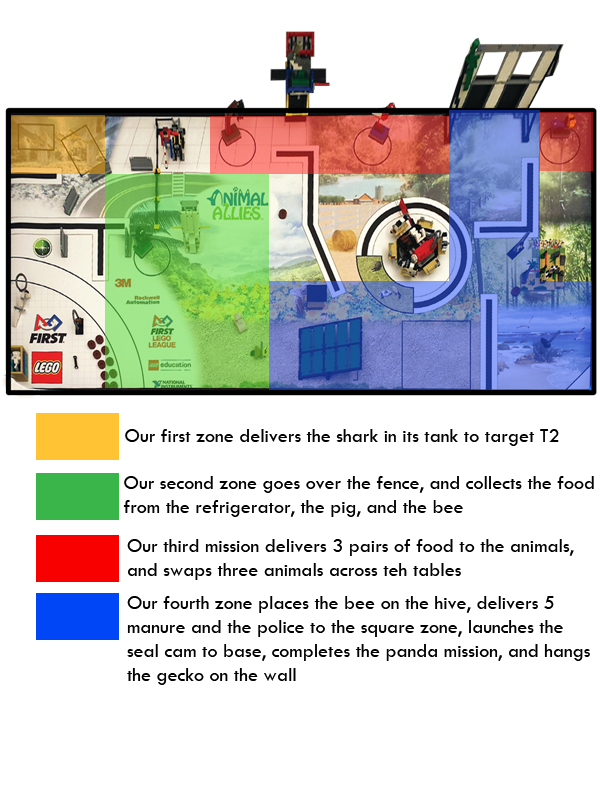
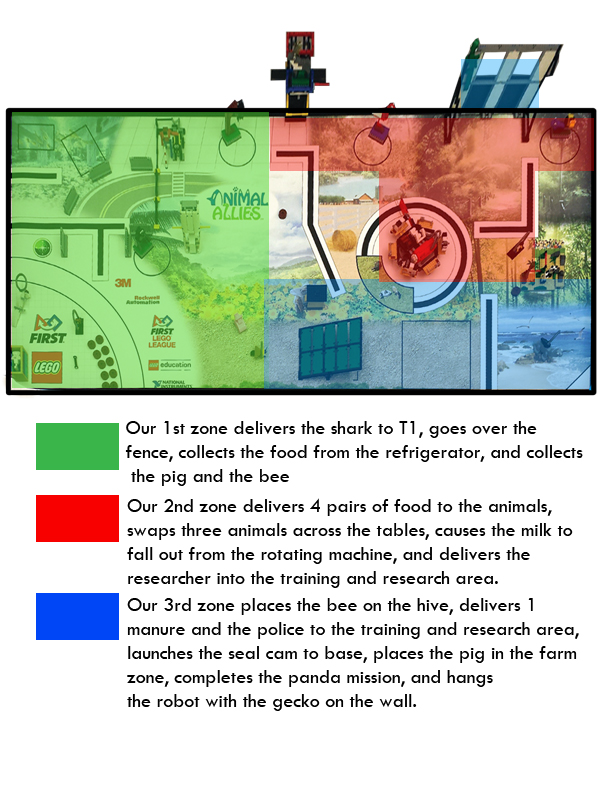
robot

diff --git a/design.html b/design.html
@@ -137,8 +137,6 @@ Technic angular wheels, and attachment bay allow the robot driver to install and
 
 		
 		
-		<br>
-	<br>
 
 
 <br>
@@ -159,36 +157,50 @@ Technic angular wheels, and attachment bay allow the robot driver to install and
 		   <tr>
              <td class="tick-border">The Monstrosity</td>
              <td class="tick-border">This is our largest attachment, employing a number of passive devices. 
-			 The robot rides on top of it, driving 
-			 the wheels on the attachment through a series of gears. It delivers the bee to the beehive and 
-			 releases the honey using a gravity-activated arm. It catapults the seal camera back to base using an
-			 elastic band powered arm. The robot then drives off the attachment using a ramp which completes the
-			 panda mission using a passive arm. Finally, the robot drives to the biomimicry wall and hangs the
-			 gecko.</td>
+			 The robot rides on top of it, driving the wheels on the attachment through a series of gears. It delivers the bee to the 
+			 beehive and releases the honey using a gravity-activated arm. It swings an arm with the pig into the farm area. 
+			 It catapults the seal camera back to base using an elastic band powered arm. The robot then drives off the attachment using 
+			 a ramp which completes thepanda mission using a passive arm. Finally, the robot drives to the biomimicry wall and hangs itself 
+			 and the gecko.</td>
 			 
 			
-             <td width="44%" class="tick-border"><img class="attachemnt_img" src="images/robot/attachment1.jpg"></img></td>
+             <td width="44%" class="tick-border"><img class="attachemnt_img" src="images/robot/A6.jpg"></img></td>
            </tr>
 		   <tr>
              <td class="tick-border">Food Dispenser</td>
-             <td class="tick-border">This attachment delivers the food to the various animals using an automatic
-			 dispenser. There is also a lifting arm that completes the animal conservation mission.
+             <td class="tick-border">This attachment delivers the food to all the animals using an automatic
+			 dispenser. It pushes the cow with an arm to activate the model. Then using that same arm, 
+			 it rotates the mission model to release the milk. There is also a lifting arm that completes the animal conservation mission.
 			 </td>
-             <td width="44%" class="tick-border"><img class="attachemnt_img" src="images/robot/attachment2.jpg"></img></td>
+             <td width="44%" class="tick-border"><img class="attachemnt_img" src="images/robot/A5.jpg"></img></td>
            </tr>
 		   <tr>
-             <td class="tick-border">Shark Mechanism</td>
-             <td class="tick-border">This attachment pushes the shark tank into the angled box using a passive arm.
+             <td class="tick-border">Shark Platform</td>
+             <td class="tick-border">The shark is placed on the platform. The robot has an arm that sticks out to push the platform
+			 so that the shark is in the scoring position.
 			 </td>
-             <td width="44%" class="tick-border"><img class="attachemnt_img" src="images/robot/attachment3.jpg"></img></td>
+             <td width="44%" class="tick-border"><img class="attachemnt_img" src="images/robot/A3.jpg"></img></td>
            </tr>
 		   <tr>
              <td class="tick-border">Service Dog and Feeding</td>
-             <td class="tick-border">This attachment has wheels that can be lowered, allowing the robot to cross the
-			 fence. There is also a motorized arm which releases the food from the refrigerator.</td>
-             <td width="44%" class="tick-border"><img class="attachemnt_img" src="images/robot/attachment4.jpg"></img></td>
+             <td class="tick-border">This attachment has wheels that raise the robot, allowing the robot to cross the
+			 fence. There is a motorized arm which releases all the food from the refrigerator. It also has an arm that lowers down to 
+			 drag the bee, pig, and the basket that holds the food back to base.</td>
+             <td width="44%" class="tick-border"><img class="attachemnt_img" src="images/robot/A2.jpg"></img></td>
            </tr>
-
+			<tr>
+             <td class="tick-border">The Giraffe</td>
+             <td class="tick-border">This attachment lowers an arm to deliver the basket that collects the food in front of the fridge. It relies on
+			 gravity to lower the arm. Once the basket is relaeased, the arm springs back into base. This attachment also acts as a jig to line up
+			 the robot in base and the shark platform.</td>
+             <td width="44%" class="tick-border"><img class="attachemnt_img" src="images/robot/A4.jpg"></img></td>
+           </tr>
+		   <tr>
+             <td class="tick-border">Gecko Hanger</td>
+             <td class="tick-border"> This attachment hangs the robot onto the biomimicry wall with the gecko.
+			 It uses a worm gear to deliver enough force to lift up the robot without straining the motor.	</td>
+             <td width="44%" class="tick-border"><img class="attachemnt_img" src="images/robot/A1.jpg"></img></td>
+           </tr>
 		   </tbody>
 		</table>
 		<br>

diff --git a/strategy.html b/strategy.html
@@ -114,9 +114,9 @@ combining missions based on proximity and attachment used (see diagram below)</l
              <th width="10%" class="tick-border">Zone</th>
              <th class="tick-border">Missions</th>
              <th class="tick-border">Points</th>
-             <th class="tick-border">Time in Base Before Mission</th>
-             <th class="tick-border">Robot Running Time</th>
-             <th class="tick-border">Total Mission Time</th>
+             <th class="tick-border">Time in Base Before Mission (s)</th>
+             <th class="tick-border">Robot Running Time (s)</th>
+             <th class="tick-border">Total Mission Time (s)</th>
              <th width="12%" class="tick-border">Clock at End of Mission</th>
              <th class="tick-border">Points per Second</th>
            </tr>
@@ -124,54 +124,44 @@ combining missions based on proximity and attachment used (see diagram below)</l
          <tbody>
            <tr>
              <td class="tick-border">Zone 1</td>
-             <td class="tick-border">Service Dog Action, Prosthesis</td>
-			 <td class="tick-border">24</td>
+             <td class="tick-border">Service Dog Action, T1 Shark Shipment</td>
+			 <td class="tick-border">42</td>
 			 <td class="tick-border">0</td>
-			 <td class="tick-border">44</td>
-			 <td class="tick-border">44</td>
-			 <td class="tick-border">0min 44sec</td>
-			 <td class="tick-border">0.5</td>
+			 <td class="tick-border">24</td>
+			 <td class="tick-border">24</td>
+			 <td class="tick-border">0min 24sec</td>
+			 <td class="tick-border">1.75</td>
            </tr>
            <tr>
              <td class="tick-border">Zone 2</td>
-             <td class="tick-border">Shark Shipment</td>
-			 <td class="tick-border">30</td>
-			 <td class="tick-border">5</td>
-			 <td class="tick-border">13</td>
+             <td class="tick-border">Feeding, Animal Conservation, Milking Automation, Training and Research</td>
+			 <td class="tick-border">169</td>
 			 <td class="tick-border">18</td>
-			 <td class="tick-border">1min 02sec</td>
-			 <td class="tick-border">1.7</td>
-           </tr>
-           <tr>
-             <td class="tick-border">Zone 3</td>
-             <td class="tick-border">Feeding, Animal Conservation</td>
-			 <td class="tick-border">140</td>
-			 <td class="tick-border">5</td>
-			 <td class="tick-border">49</td>
-			 <td class="tick-border">54</td>
-			 <td class="tick-border">1min 56sec</td>
-			 <td class="tick-border">2.6</td>
+			 <td class="tick-border">69</td>
+			 <td class="tick-border">87</td>
+			 <td class="tick-border">1min 51sec</td>
+			 <td class="tick-border">1.94</td>
            </tr>
             <tr>
-             <td class="tick-border">Zone 4</td>
-             <td class="tick-border">Bee Keeping, Training and Research, Camera Recovery, Panda Release, Biomimicry</td>
-			 <td class="tick-border">89</td>
-			 <td class="tick-border">8</td>
-			 <td class="tick-border">20</td>
-			 <td class="tick-border">28</td>
-			 <td class="tick-border">2min 24sec</td>
-			 <td class="tick-border">3.2</td>
+             <td class="tick-border">Zone 3</td>
+             <td class="tick-border">Bee Keeping, Training and Research, Camera Recovery, Panda Release, Biomimicry, Prosthesis</td>
+			 <td class="tick-border">116</td>
+			 <td class="tick-border">10</td>
+			 <td class="tick-border">24</td>
+			 <td class="tick-border">34</td>
+			 <td class="tick-border">2min 25sec</td>
+			 <td class="tick-border">3.41</td>
            </tr>
         
            <tr>
              <td class="tick-border"><b>Total</b></td>
-			 <td class="tick-border"><b></b></td>
-             <td class="tick-border"><b>283</b></td>
-			 <td class="tick-border"><b>18</b></td>
-			 <td class="tick-border"><b>126</b></td>
-			 <td class="tick-border"><b>144</b></td>
-			 <td class="tick-border"><b>2min 24sec</b></td>
-			 <td class="tick-border"><b>2.0</b></td>
+			 <td class="tick-border"><b>327</b></td>
+             <td class="tick-border"><b>327</b></td>
+			 <td class="tick-border"><b>28</b></td>
+			 <td class="tick-border"><b>117</b></td>
+			 <td class="tick-border"><b>145</b></td>
+			 <td class="tick-border"><b>2min 25sec</b></td>
+			 <td class="tick-border"><b>2.26</b></td>
            </tr>
          </tbody>
        </table>
